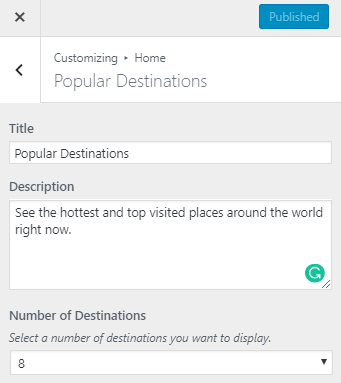
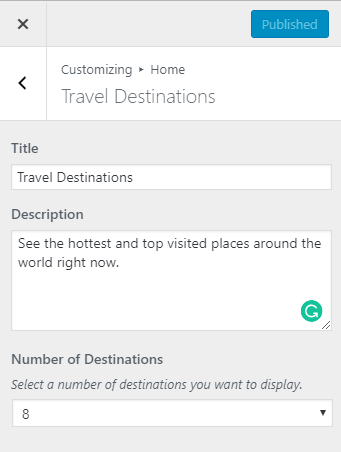
Deployed e295ec4 with MkDocs version: 0.17.4

diff --git a/home/settings/popular-destinations/index.html b/home/settings/popular-destinations/index.html
@@ -21,7 +21,7 @@
     
     
       
-        <title>Popular Destinations - TourPress WordPress Theme</title>
+        <title>Travel Destinations - TourPress WordPress Theme</title>
       
     
     
@@ -92,7 +92,7 @@
                 </span>
               
             
-            Popular Destinations
+            Travel Destinations
           
         </span>
       </div>
@@ -344,11 +344,11 @@
     
     
       <label class="md-nav__link md-nav__link--active" for="toc">
-        Popular Destinations
+        Travel Destinations
       </label>
     
-    <a href="./" title="Popular Destinations" class="md-nav__link md-nav__link--active">
-      Popular Destinations
+    <a href="./" title="Travel Destinations" class="md-nav__link md-nav__link--active">
+      Travel Destinations
     </a>
     
       
@@ -360,8 +360,8 @@
     <ul class="md-nav__list" data-md-scrollfix>
       
         <li class="md-nav__item">
-  <a href="#popular-destinations-settings" title="Popular Destinations Settings" class="md-nav__link">
-    Popular Destinations Settings
+  <a href="#travel-destinations-settings" title="Travel Destinations Settings" class="md-nav__link">
+    Travel Destinations Settings
   </a>
   
 </li>
@@ -704,8 +704,8 @@
     <ul class="md-nav__list" data-md-scrollfix>
       
         <li class="md-nav__item">
-  <a href="#popular-destinations-settings" title="Popular Destinations Settings" class="md-nav__link">
-    Popular Destinations Settings
+  <a href="#travel-destinations-settings" title="Travel Destinations Settings" class="md-nav__link">
+    Travel Destinations Settings
   </a>
   
 </li>
@@ -727,10 +727,10 @@
                   <a href="https://github.com/InspiryThemes/tp-doc/edit/master/docs/home/settings/popular-destinations.md" title="Edit this page" class="md-icon md-content__icon">edit</a>
                 
                 
-                  <h1>Popular Destinations</h1>
+                  <h1>Travel Destinations</h1>
                 
-                <h2 id="popular-destinations-settings"><strong>Popular Destinations Settings</strong><a class="headerlink" href="#popular-destinations-settings" title="Permanent link">&para;</a></h2>
-<p>If you want to display <strong>Popular Destinations</strong> on homepage then navigate to <strong>Dashboard &gt; Customize &gt; Home &gt; Popular Destinations</strong>. You can choose title description and number of Popular Destinations as shown below.</p>
+                <h2 id="travel-destinations-settings"><strong>Travel Destinations Settings</strong><a class="headerlink" href="#travel-destinations-settings" title="Permanent link">&para;</a></h2>
+<p>If you want to display <strong>Travel Destinations</strong> on homepage then navigate to <strong>Dashboard &gt; Customize &gt; Home &gt; Travel Destinations</strong>. You can choose title description and number of Popular Destinations as shown below.</p>
 <p><img alt="img" src="../../../img/homepage-popular-destinations.png" /></p>
 <p>These Destinations are coming from Easy Tour <strong>Destinations Taxonomy</strong>. You can configure destinations as shown below</p>
 <p><img alt="img" src="../../../img/popular-destinations-setting.png" /></p>

diff --git a/index.html b/index.html
@@ -402,8 +402,8 @@
 
 
   <li class="md-nav__item">
-    <a href="home/settings/popular-destinations/" title="Popular Destinations" class="md-nav__link">
-      Popular Destinations
+    <a href="home/settings/popular-destinations/" title="Travel Destinations" class="md-nav__link">
+      Travel Destinations
     </a>
   </li>
 
@@ -805,7 +805,7 @@
                 
                 <h1 id="tourpress-wordpress-theme">TourPress WordPress Theme<a class="headerlink" href="#tourpress-wordpress-theme" title="Permanent link">&para;</a></h1>
 <div class="admonition success">
-<p class="admonition-title">This documentation is last updated on 27<sup>th</sup> June 2018</p>
+<p class="admonition-title">This documentation is last updated on 31th July 2018</p>
 </div>
 <h2 id="introduction">Introduction<a class="headerlink" href="#introduction" title="Permanent link">&para;</a></h2>
 <p>Thanks for purchasing TourPress WordPress Theme. If you have any question that is beyond the scope of this documentation, feel free to ask that on our <a href="https://support.inspirythemes.com/">support website</a>. You can visit <a href="https://support.inspirythemes.com/knowledgebase/how-to-get-themeforest-item-purchase-code/">this knowledge base article</a> to learn about how to get item purchase code from themeforest.net to sign-up on our support site.</p>

diff --git a/home/settings/special-offers/index.html b/home/settings/special-offers/index.html
@@ -337,8 +337,8 @@
 
 
   <li class="md-nav__item">
-    <a href="../popular-destinations/" title="Popular Destinations" class="md-nav__link">
-      Popular Destinations
+    <a href="../popular-destinations/" title="Travel Destinations" class="md-nav__link">
+      Travel Destinations
     </a>
   </li>
 
@@ -754,7 +754,7 @@
     <div class="md-footer-nav">
       <nav class="md-footer-nav__inner md-grid">
         
-          <a href="../popular-destinations/" title="Popular Destinations" class="md-flex md-footer-nav__link md-footer-nav__link--prev" rel="prev">
+          <a href="../popular-destinations/" title="Travel Destinations" class="md-flex md-footer-nav__link md-footer-nav__link--prev" rel="prev">
             <div class="md-flex__cell md-flex__cell--shrink">
               <i class="md-icon md-icon--arrow-back md-footer-nav__button"></i>
             </div>
@@ -763,7 +763,7 @@
                 <span class="md-footer-nav__direction">
                   Previous
                 </span>
-                Popular Destinations
+                Travel Destinations
               </span>
             </div>
           </a>

diff --git a/home/settings/featured-packages/index.html b/home/settings/featured-packages/index.html
@@ -369,8 +369,8 @@
 
 
   <li class="md-nav__item">
-    <a href="../popular-destinations/" title="Popular Destinations" class="md-nav__link">
-      Popular Destinations
+    <a href="../popular-destinations/" title="Travel Destinations" class="md-nav__link">
+      Travel Destinations
     </a>
   </li>
 
@@ -769,13 +769,13 @@
           </a>
         
         
-          <a href="../popular-destinations/" title="Popular Destinations" class="md-flex md-footer-nav__link md-footer-nav__link--next" rel="next">
+          <a href="../popular-destinations/" title="Travel Destinations" class="md-flex md-footer-nav__link md-footer-nav__link--next" rel="next">
             <div class="md-flex__cell md-flex__cell--stretch md-footer-nav__title">
               <span class="md-flex__ellipsis">
                 <span class="md-footer-nav__direction">
                   Next
                 </span>
-                Popular Destinations
+                Travel Destinations
               </span>
             </div>
             <div class="md-flex__cell md-flex__cell--shrink">

diff --git a/tour/settings/price-format/index.html b/tour/settings/price-format/index.html
@@ -325,8 +325,8 @@
 
 
   <li class="md-nav__item">
-    <a href="../../../home/settings/popular-destinations/" title="Popular Destinations" class="md-nav__link">
-      Popular Destinations
+    <a href="../../../home/settings/popular-destinations/" title="Travel Destinations" class="md-nav__link">
+      Travel Destinations
     </a>
   </li>
 
@@ -665,7 +665,7 @@
                 
                   <h1>Price Format Settings</h1>
                 
-                <p>If you want to set the price format of tours then go to <strong>Dashboard &gt; Easy Tours &gt; Settings</strong> and look for <strong>Price Format</strong> tab as shown below</p>
+                <p>If you want to set the price format for tours then go to <strong>Dashboard &gt; Easy Tours &gt; Settings</strong> and look for <strong>Price Format</strong> tab as shown below</p>
 <p><img alt="img" src="../../../img/tours-price-format.png" /></p>
                 
                   

diff --git a/tour/settings/tour-slugs/index.html b/tour/settings/tour-slugs/index.html
@@ -325,8 +325,8 @@
 
 
   <li class="md-nav__item">
-    <a href="../../../home/settings/popular-destinations/" title="Popular Destinations" class="md-nav__link">
-      Popular Destinations
+    <a href="../../../home/settings/popular-destinations/" title="Travel Destinations" class="md-nav__link">
+      Travel Destinations
     </a>
   </li>
 
@@ -665,7 +665,7 @@
                 
                   <h1>URL Slugs Settings</h1>
                 
-                <p>If you want to set the Slugs of tours then go to <strong>Dashboard &gt; Easy Tours &gt; Settings</strong> and look for <strong>URL Slugs</strong> tab as shown below</p>
+                <p>If you want to set the Slugs for tours then go to <strong>Dashboard &gt; Easy Tours &gt; Settings</strong> and look for <strong>URL Slugs</strong> tab as shown below</p>
 <p><img alt="img" src="../../../img/tours-slugs.png" /></p>
                 
                   

diff --git a/tour/settings/tour-google-map-api/index.html b/tour/settings/tour-google-map-api/index.html
@@ -325,8 +325,8 @@
 
 
   <li class="md-nav__item">
-    <a href="../../../home/settings/popular-destinations/" title="Popular Destinations" class="md-nav__link">
-      Popular Destinations
+    <a href="../../../home/settings/popular-destinations/" title="Travel Destinations" class="md-nav__link">
+      Travel Destinations
     </a>
   </li>
 
@@ -665,7 +665,7 @@
                 
                   <h1>Google Maps API</h1>
                 
-                <p>If you want to Google Maps API of tours then go to <strong>Dashboard &gt; Easy Tours &gt; Settings</strong> and look for <strong>Others</strong> tab as shown below</p>
+                <p>If you want to add Google Maps API then go to <strong>Dashboard &gt; Easy Tours &gt; Settings</strong> and look for <strong>Others</strong> tab as shown below</p>
 <p><img alt="img" src="../../../img/tour-google-map-api.png" /></p>
                 
                   

diff --git a/tour/settings/tour-detail-page/index.html b/tour/settings/tour-detail-page/index.html
@@ -329,8 +329,8 @@
 
 
   <li class="md-nav__item">
-    <a href="../../../home/settings/popular-destinations/" title="Popular Destinations" class="md-nav__link">
-      Popular Destinations
+    <a href="../../../home/settings/popular-destinations/" title="Travel Destinations" class="md-nav__link">
+      Travel Destinations
     </a>
   </li>
 

diff --git a/404.html b/404.html
@@ -321,8 +321,8 @@
 
 
   <li class="md-nav__item">
-    <a href="/tp-doc/home/settings/popular-destinations/" title="Popular Destinations" class="md-nav__link">
-      Popular Destinations
+    <a href="/tp-doc/home/settings/popular-destinations/" title="Travel Destinations" class="md-nav__link">
+      Travel Destinations
     </a>
   </li>
 

diff --git a/tour/add-tour/index.html b/tour/add-tour/index.html
@@ -329,8 +329,8 @@
 
 
   <li class="md-nav__item">
-    <a href="../../home/settings/popular-destinations/" title="Popular Destinations" class="md-nav__link">
-      Popular Destinations
+    <a href="../../home/settings/popular-destinations/" title="Travel Destinations" class="md-nav__link">
+      Travel Destinations
     </a>
   </li>
 

diff --git a/tour/create-tours-page/index.html b/tour/create-tours-page/index.html
@@ -329,8 +329,8 @@
 
 
   <li class="md-nav__item">
-    <a href="../../home/settings/popular-destinations/" title="Popular Destinations" class="md-nav__link">
-      Popular Destinations
+    <a href="../../home/settings/popular-destinations/" title="Travel Destinations" class="md-nav__link">
+      Travel Destinations
     </a>
   </li>
 

diff --git a/widgets/address-contact/index.html b/widgets/address-contact/index.html
@@ -329,8 +329,8 @@
 
 
   <li class="md-nav__item">
-    <a href="../../home/settings/popular-destinations/" title="Popular Destinations" class="md-nav__link">
-      Popular Destinations
+    <a href="../../home/settings/popular-destinations/" title="Travel Destinations" class="md-nav__link">
+      Travel Destinations
     </a>
   </li>
 
